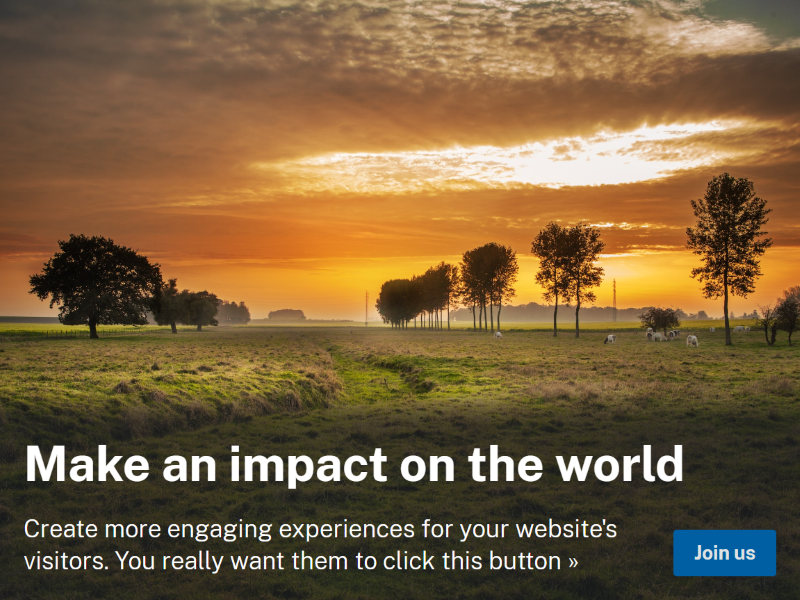
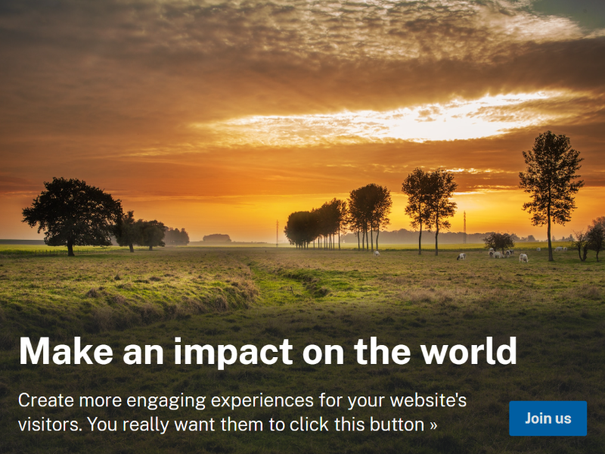
resize thumbnail images (#95)

diff --git a/src/app/components/site-card/site-card.component.html b/src/app/components/site-card/site-card.component.html
@@ -8,7 +8,7 @@
 
         <!-- design pattern thumbnails -->
         <img *ngIf="!card.imageType" class="easeload" onload="this.style.opacity=1"
-          ngSrc="{{ card.image }}" width="800" height="600" priority="{{(i<6)?true:false}}" alt="" />
+          ngSrc="{{ card.image }}" width="605" height="454" priority="{{(i<6)?true:false}}" alt="" />
 
         <!-- if icon is used instead (and for suggestion card) -->
         <div *ngIf="card.imageType==='usa-icon'" class="icon-container">
